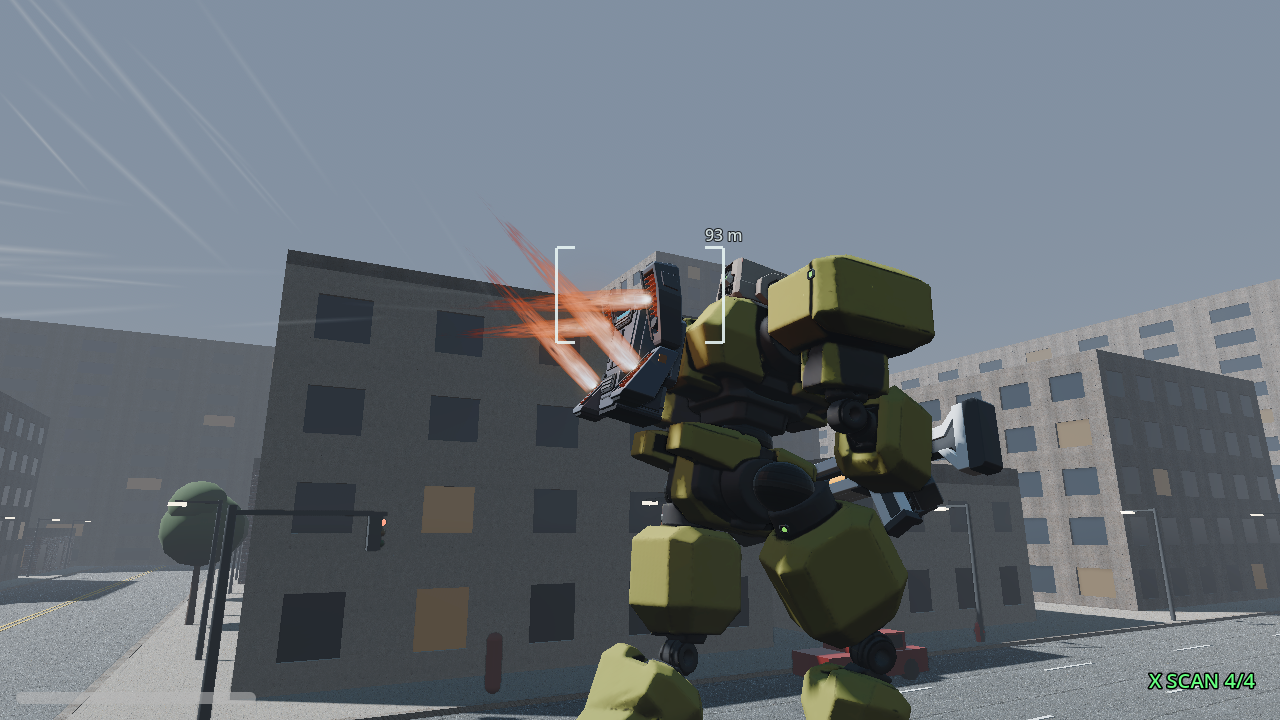
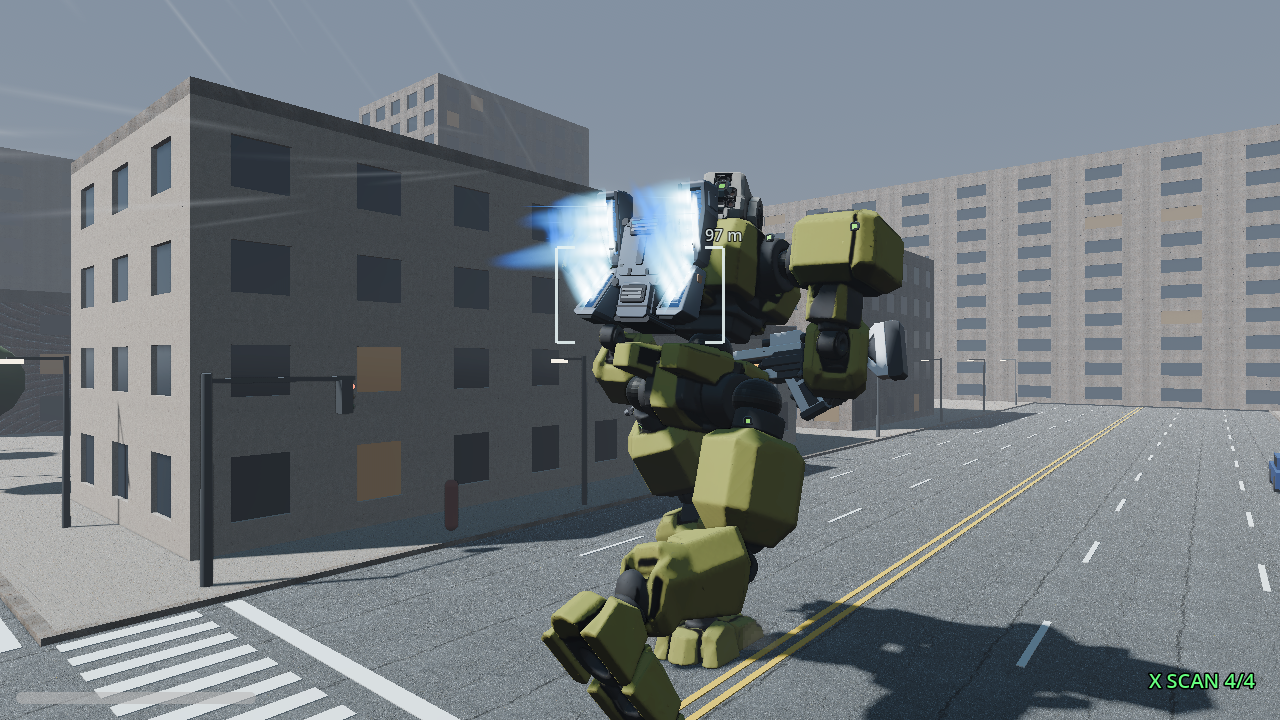
Boost Pack: light blue fire from the whole grille panels (BoosterPanelFlame)
Claude-Session: https://claude.ai/code/session_01KUmA75ihvtmtpguPtpcWey

diff --git a/DESIGN.md b/DESIGN.md
@@ -1087,6 +1087,7 @@ Paint skin "Navy Orange" (the 4th garage skin, `MechSkinChoice.Style.PAINT`, the
 - Heat: `NozzleHeat` (a material overlay on OutletGlow, NozzleThroat/Inner/Ring in full and NozzlePetal/Lip/Nozzle*/OutletFlap at 60%): dark -> deep red -> orange with thrust (`heat_rate` 0.6 per s, `cool_rate` 0.25 per s).
 - Petals: `BackPackFlaps` close down further (`petal_charge_deg` -30) as the jump charge builds and snap open at the launch (`snap_window` 0.3 s); Boost Pack louvers crack open 30% (`flap_charge_fraction`). They also open on the jump jets and a dodge hop.
 - Test `tools/godot/test_boost_pack.gd` (59 checks: cold and no fire standing, a streak gust, a plume on every outlet, heat up and cool down, louvers and petals on the charge and the launch): 0 failures; test_ammo_pack, test_stability 0 failures. Pictures (`tools/godot/render_booster_fire.gd`): `models/backpacks/booster_fire_quad.png`, `booster_fire_boost.png`, `booster_fire_jet.png`, `booster_fire_quad_launch.png`, `quad_petals_charge.png`. Open: the plume reads a little peach on the bright day map (AgX); Forward+ not checked.
+- Boost Pack panel fire (user 2026-11-03: "Boost Pack boosts should come from the entire backpack panel, light blue fire. Make it look realistic, add some character"): `BackPackPart.panel_flame` (true on the Boost Pack) and `flame_color` (0.45, 0.8, 1.0). `BoosterPanelFlame` (`scripts/effects/booster_panel_flame.gd`, `shaders/booster_panel_flame.gdshader`) replaces the round plume on each grille: flame tongues across the whole grille (one pair every `tongue_spacing` 0.24 m, `length` 2.0 m at full thrust, each with its own flicker, now and then a long lick: `lick_rate`, `lick_spread`, `lick_chance`, `lick_length`), white-blue hot at the panel, light blue in the middle, a deep blue see-through tail, faint bright bands at the base; five glowing cards over the panel give it body from behind. The grille heat is blue (`NozzleHeat.blue_ramp`), the light is light blue. Quad Booster and Jet Pack keep the orange plume. test_boost_pack 0 failures. Pictures `models/backpacks/booster_fire_boost.png`, `booster_fire_boost_views.png` (3/4, side, back).
 
 ## Saucer drones (user request 2026-11-02)
 
@@ -1094,6 +1095,7 @@ Paint skin "Navy Orange" (the 4th garage skin, `MechSkinChoice.Style.PAINT`, the
 - Flight: the disc flies level (axis vertical) with a slow spin (`spin_deg_per_s` 90, cruise only), a bank into its speed (`max_bank_deg` 14) and a 0.15 m hover bob on the model only (DroneData group Saucer: `turn_rate`, `bank_full_speed`, `bank_smooth`, `bob_height`, `bob_hz`, `aim_tolerance_deg`, `aim_max_s`).
 - Barrel: a port notch in the rim with a recessed steel tube, a dark bore and two amber lights (`tools/blender/backpack_build.py` drone functions; `DroneMuzzle<n>` at the port mouth, 0.446 m from the centre; the hub bore is gone, the hub is a sensor dome). Docks and the pack are unchanged.
 - Attack: FIRE has the steps AIM, BURST, SHIFT. The body turns the port to the target, fires a 0.5 s burst (only while the port is within 15 deg of the target, in range and in sight), then glides to a new place (same flank, at least `shift_distance_min` 5 m from the old one and from earlier burst places, in range and sight, through the navigator; `shift_pace` 0.35, `shift_max_s`), and fires the next: 3 bursts = 3 moves. A recall drone's third move is the way home; an exploding drone makes the last move and explodes. `max_flight_s` 5 -> 8 (real flights end at about 5.6 to 6 s).
+- Quick hop (user 2026-11-03: "drone move distance = 1 meter, quick movements, maximum flight during this movement is 0.5 sec"): `shift_hop` 1 m to one side, up or down (random order, a clear path, the target still in sight, not back onto an earlier burst place), `shift_max_s` 0.5, `shift_pace` 0.06, `shift_arrive` 0.1. `shift_hop` 0 brings back the 5 m glide to a new place. Measured: bursts about 1 m apart, the flight ends at about 4.9 s. test_drone_pack (new check: hops of 0.5 to 2 m) and test_drone_mods 0 failures.
 - Tests: test_drone_pack (muzzle on the rim, port tube, 3 bursts, 3 moves, 3 places, bursts within 20 m, the lean, the disc level within 14 deg), test_drone_mods (a recall drone has 3 bursts and 3 moves at RETURN), test_ammo_pack, test_boost_pack: 0 failures. Pictures `models/backpacks/drone_saucer.png`, `drone_saucer_port.png` (tool `render_drone_saucer.gd`).
 
 ## Hit reactions halved, stagger bar gate (user request 2026-11-02)
@@ -1469,7 +1471,7 @@ scripts/combat/     mech_health.gd, part_hitbox.gd, part_breaker.gd, mech_death.
 ## Reminders for the user
 - Open (2026-11-02, built): play test the Ctrl kneel pose (right knee down, left foot forward, the camera with it) and the steady head while aiming (RMB) and firing (see "Ctrl kneel pose and steady head").
 - Open (2026-11-02, built): play test the booster fire, gust, nozzle heat and petal charge on the Quad Booster, Boost Pack and Jet Pack (see "Booster fire"); say if the plume length, brightness, light, heat speed or petal angle should change.
-- Open (2026-11-02, built): play test the saucer drones (see "Saucer drones"): the level disc, the lean, the bob, the rim port facing the target, a glide to a new place after each burst.
+- Open (2026-11-03, built): play test the saucer drones (see "Saucer drones"): the level disc, the lean, the bob, the rim port facing the target, a quick 1 m hop after each burst (0.5 s at most); and the Boost Pack light blue panel fire.
 - Open (2026-11-02, built): play test the hit reactions (see "Hit reactions halved"): normal hits do not stop walking, the half-strength torso and head flinch, the stun and knock-down at a full bar.
 - Open (2026-11-02, built): play test the beam rifle changes (see "Beam rifle changes"): Beam Rifle 4 shot at the release and 6 s cool down, Beam Rifle 3 rings in sequence and the 1 s fade, Beam Rifle 2 coil heat colors, Beam Rifle 1 slight kick.
 - Open (2026-11-02, built): play test Shotgun 3 in the left hand, its head snap at each shot, and the screen disruption when Shotgun 2 or 3 pellets hit you (an AI enemy with a Shotgun 2 or 3).
